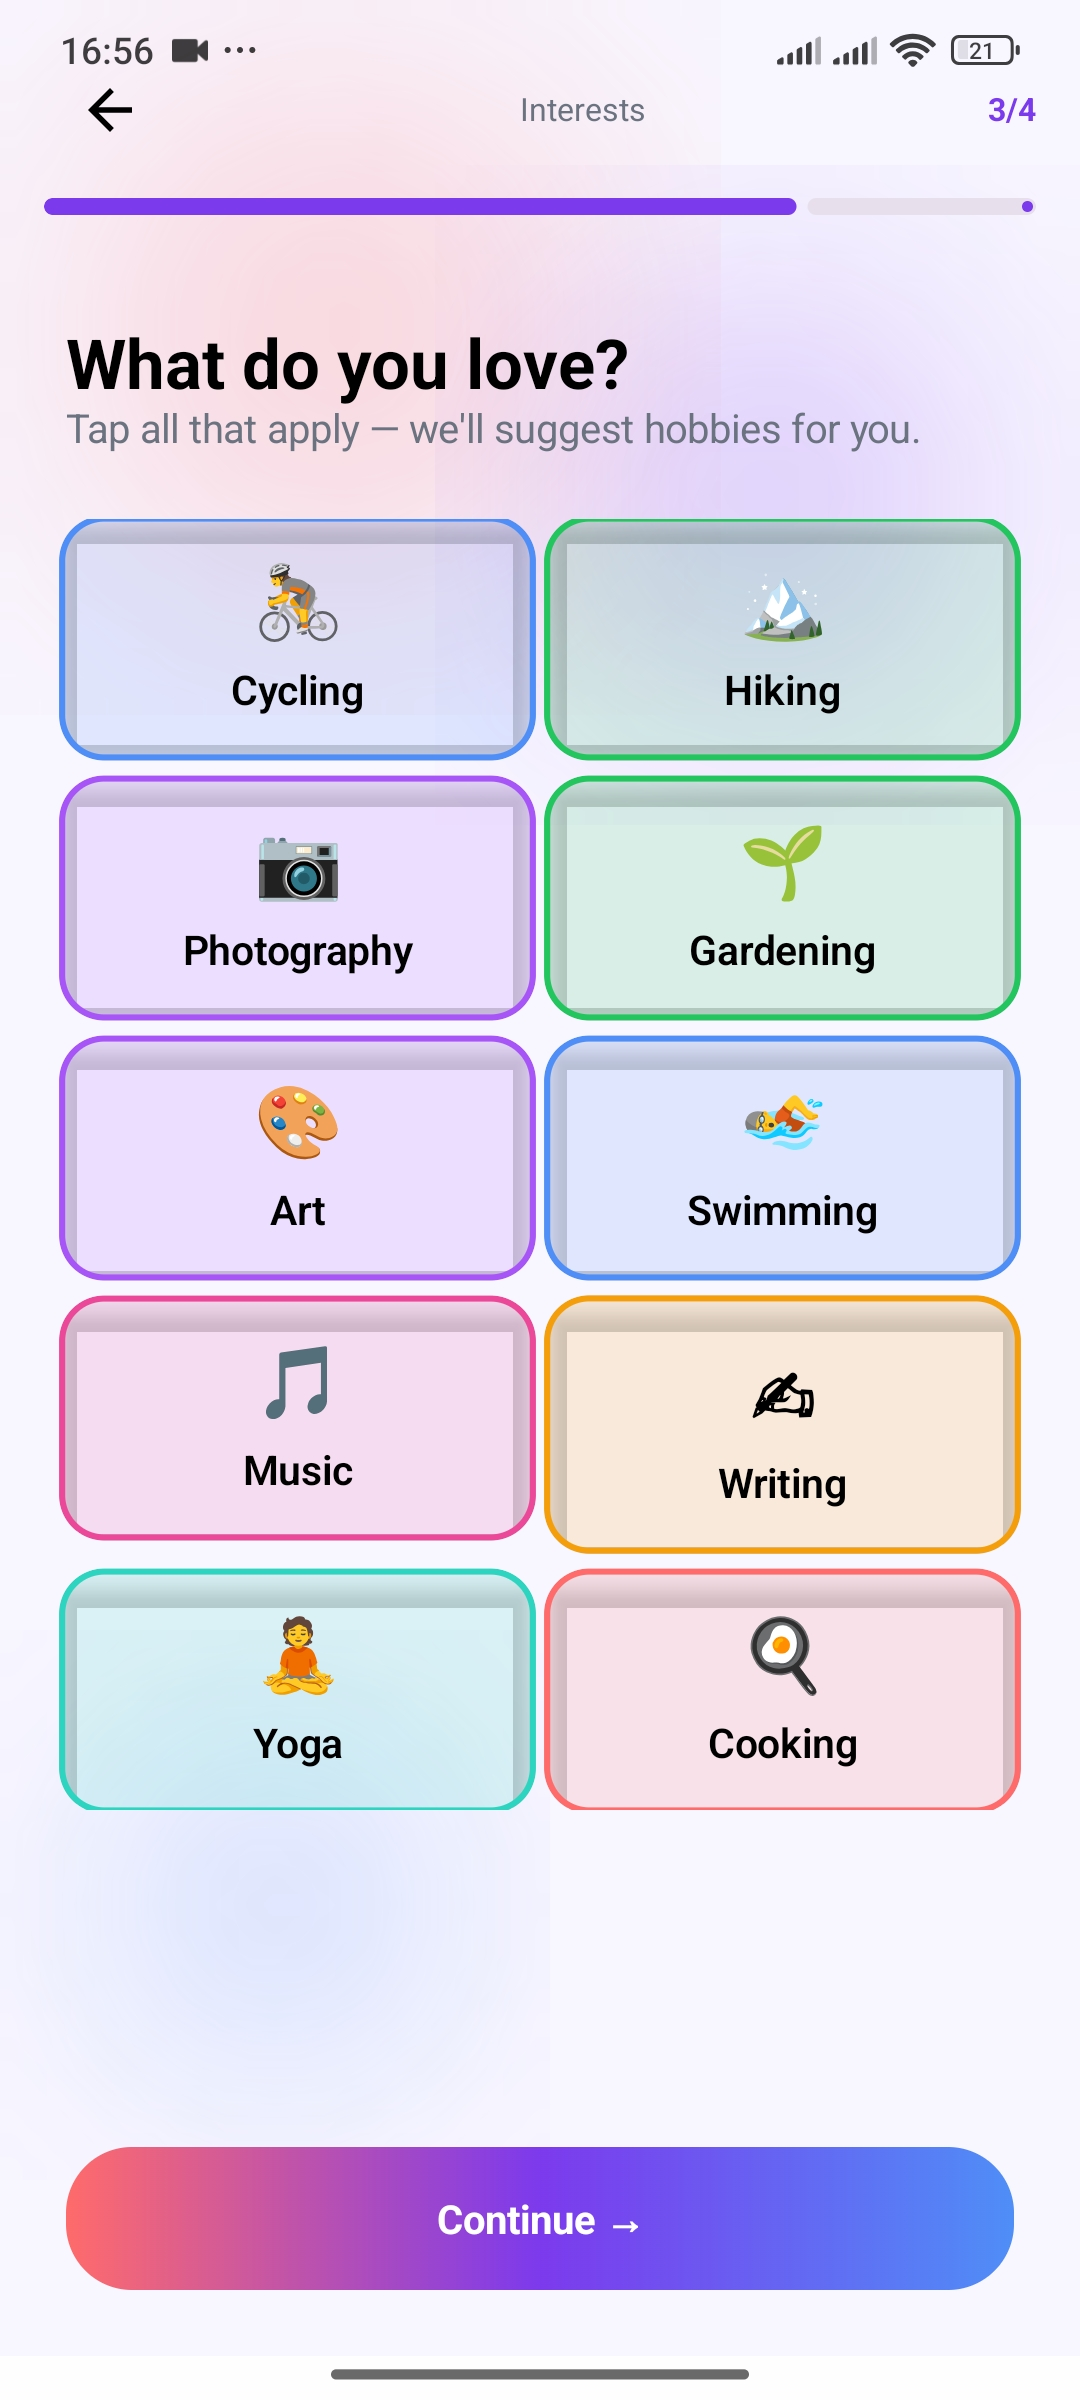
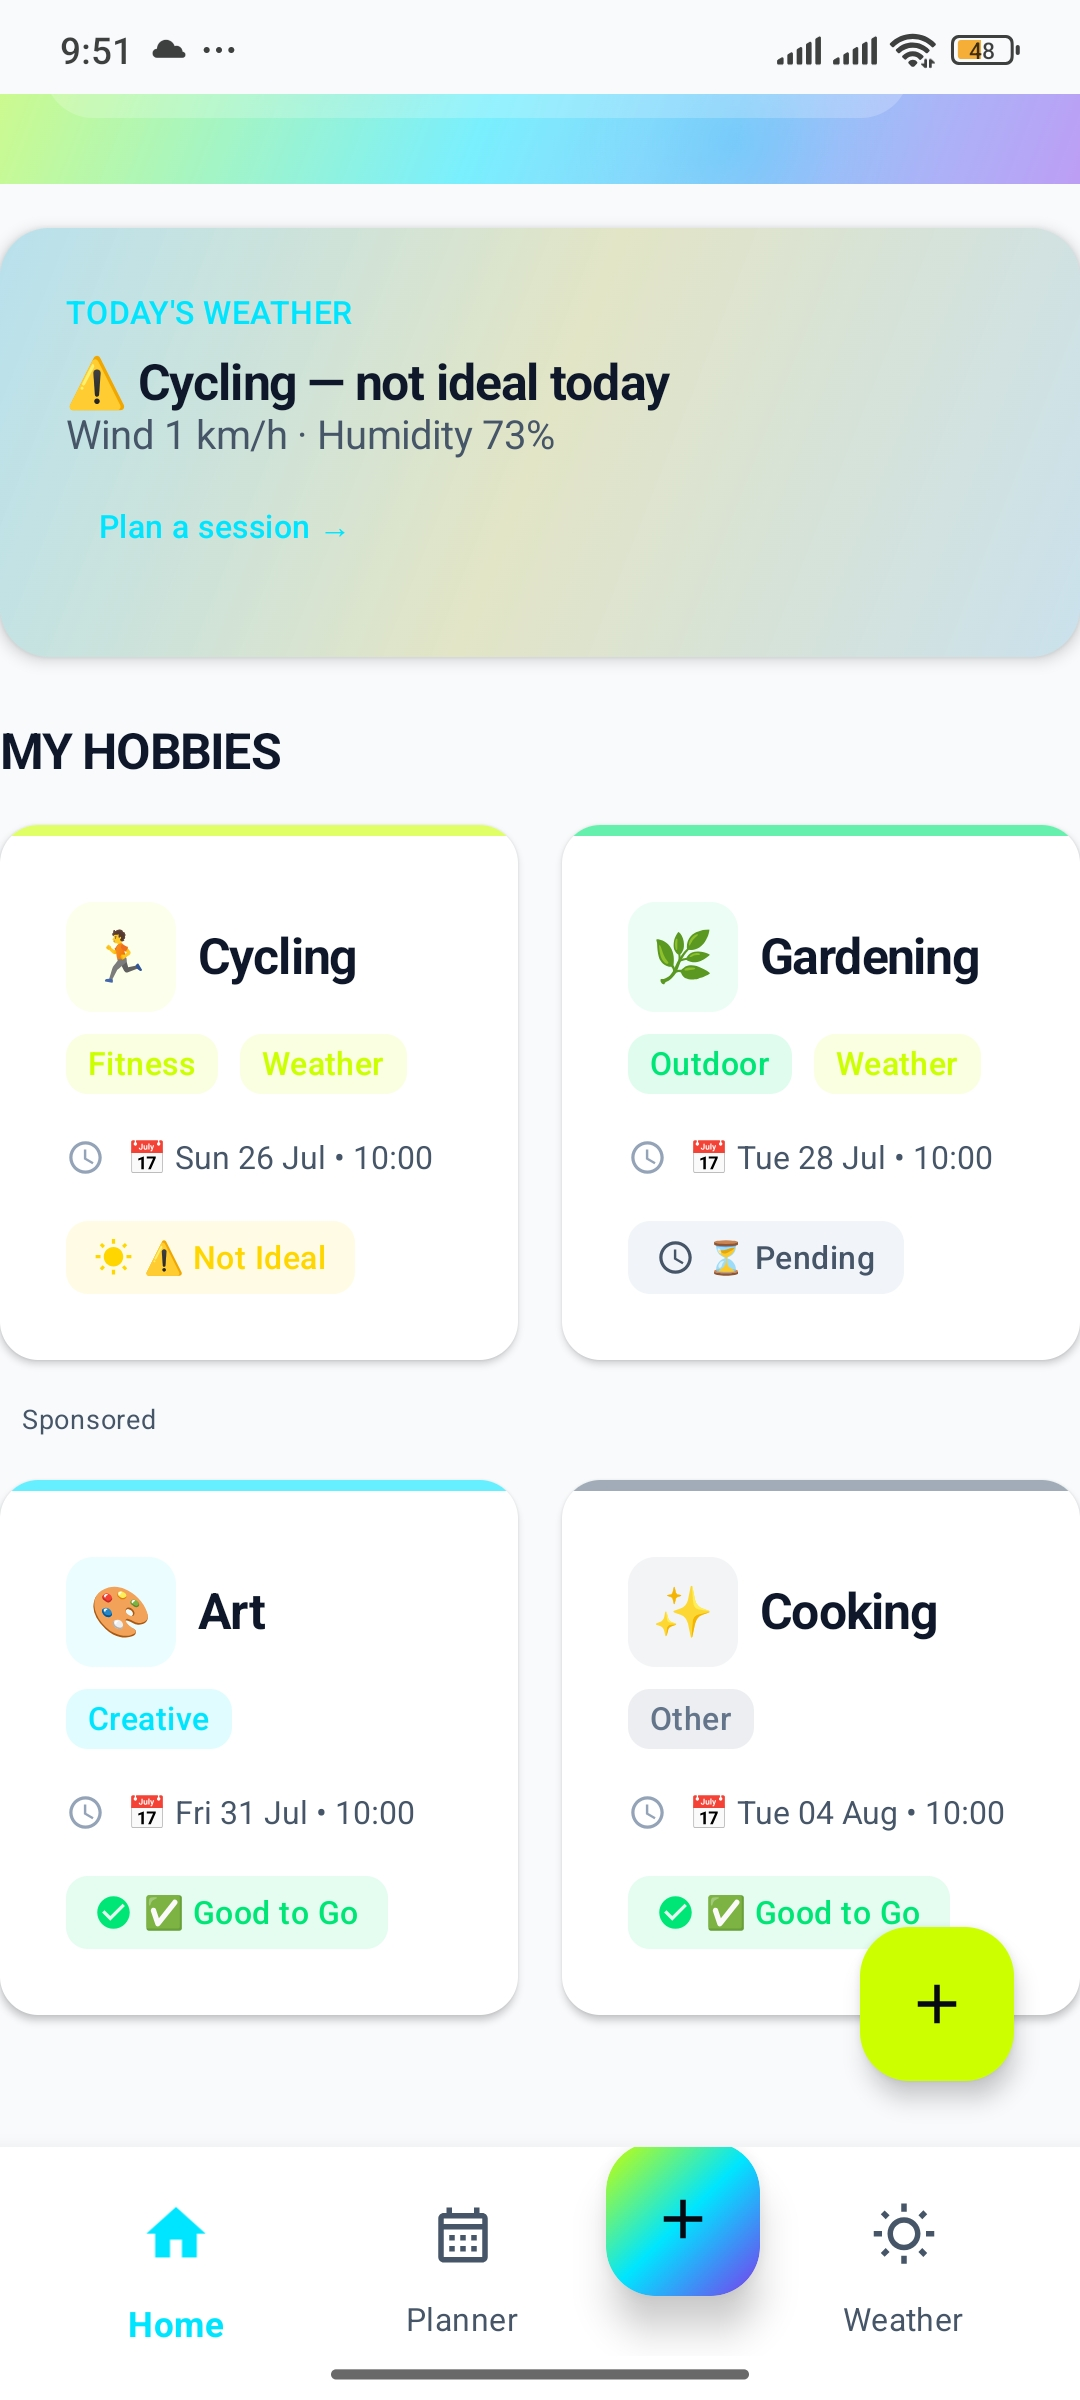
updated screenshots

diff --git a/docs/index.html b/docs/index.html
@@ -1735,16 +1735,19 @@
                 <p>Create, organize, and manage all your hobbies in one beautiful dashboard. Track progress, set goals, and keep your passions organized.</p>
             </div>
             <div class="feature-card reveal reveal-delay-1">
+                <img src="personalized_preferences.png" alt="Personalized Preferences feature showing custom weather settings for each hobby" class="feature-card-image">
                 <div class="feature-icon feature-icon-accent">⚙</div>
                 <h3>Personalized Preferences</h3>
                 <p>Set ideal weather conditions for each hobby — temperature range, rain tolerance, wind limits. Get custom recommendations tailored to your comfort level.</p>
             </div>
             <div class="feature-card reveal reveal-delay-2">
+                <img src="smart_notifications.png" alt="Smart Notifications feature showing timely reminders and weather alerts" class="feature-card-image">
                 <div class="feature-icon feature-icon-primary">🔔</div>
                 <h3>Smart Notifications</h3>
                 <p>Receive timely reminders for scheduled hobbies and intelligent alerts when weather conditions match your preferences. Never miss the perfect moment.</p>
             </div>
             <div class="feature-card reveal reveal-delay-3">
+                <img src="family_friendly.png" alt="Family-Friendly interface showing intuitive design for users of all ages" class="feature-card-image">
                 <div class="feature-icon feature-icon-green">👨👩👧👦</div>
                 <h3>Family-Friendly</h3>
                 <p>Designed for users of all ages with a clean, intuitive interface. Share hobbies with family members and plan group activities together.</p>
